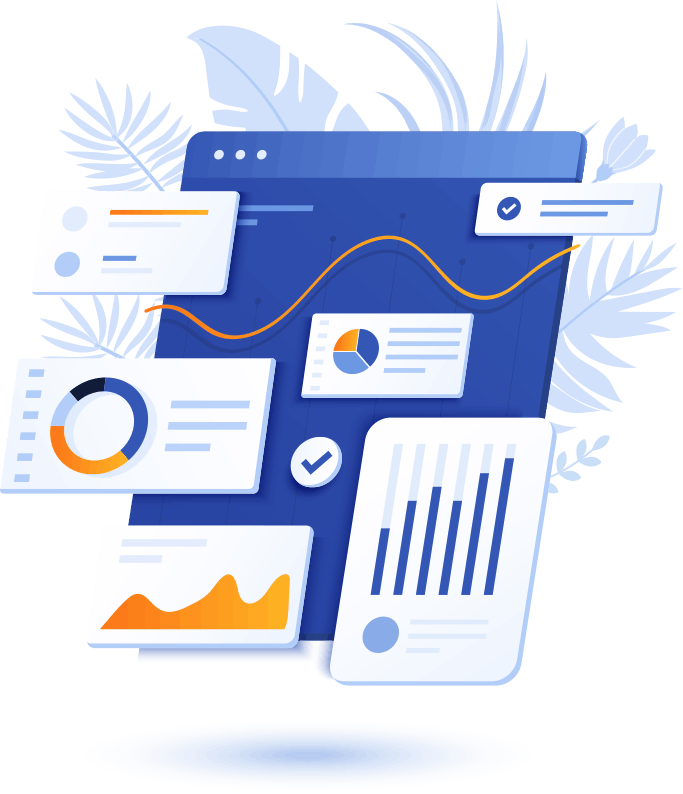
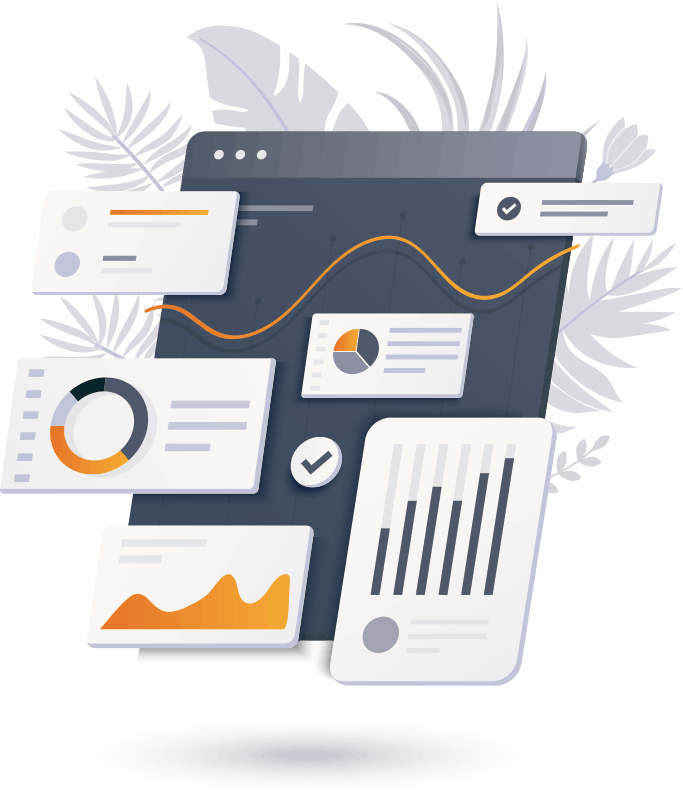
black theme update

diff --git a/assets/scss/footer/_footer.scss b/assets/scss/footer/_footer.scss
@@ -175,7 +175,7 @@
 .footer-top {
     padding: 100px 0px;
     @include max-screen(1199) {
-        background: #0a196f;
+        background: black;
     }
     .container {
         position: relative;
@@ -183,7 +183,7 @@
     }
 }
 .footer-card {
-    background: #02126a;
+    background: #222222;
     border-radius: 15px;
 }
 
@@ -290,7 +290,7 @@
     }
 }
 .footer-social-link {
-    border: 1px solid #273581;
+    border: 1px solid #666666;
     width: 50px;
     height: 50px;
     display: flex;
@@ -307,7 +307,7 @@
 
 .copy-right-section {
     padding: 20px 0px;
-    background: #111f73;
+    background: #222222;
     P {
         text-align: center;
         color: #c7cbdf;

diff --git a/assets/scss/components/_accordion.scss b/assets/scss/components/_accordion.scss
@@ -47,10 +47,10 @@
                 box-shadow: none;
             }
             &:active {
-                color: #02126a;
+                color: #222222;
             }
             &.collapsed {
-                color: #02126a;
+                color: #222222;
                 background-color: #f7faff;
             }
         }

diff --git a/assets/scss/components/_working-process.scss b/assets/scss/components/_working-process.scss
@@ -34,7 +34,7 @@
             height: 170px;
             margin: 0 auto 5px;
             position: relative;
-            border: 5px solid #132580;
+            border: 5px solid #333333;
             border-radius: 50%;
             background-color: $primary;
             width: 170px;

diff --git a/assets/scss/_variables.scss b/assets/scss/_variables.scss
@@ -26,7 +26,7 @@ $dark: #000;
 
 
 // Border Color
-$border-color: #273581;
+$border-color: #666666;
 
 
 // Gray
@@ -36,7 +36,7 @@ $gray-800: #f8f8f8;
 
 
 // Other Colors
-$blue: #02126a;
+$blue: #222222;
 $red: #dc3545;
 $yellow: #fc7418;
 $green: #32b618;

diff --git a/assets/scss/_common.scss b/assets/scss/_common.scss
@@ -185,7 +185,7 @@ button {
 
     &.process {
         .icon {
-            background: #2843b2;
+            background: #222222;
             box-shadow: 0px 0px 55px 0px rgba(2, 18, 106, 0.1);
         }
         .title {

diff --git a/assets/scss/components/_blog.scss b/assets/scss/components/_blog.scss
@@ -210,7 +210,7 @@
     // max-width: 390px;
     margin: 0 auto;
     .title {
-        color: #02126a;
+        color: #222222;
         font-size: 20px;
         font-weight: 700;
         line-height: 1.5;

diff --git a/assets/scss/components/_hero-section.scss b/assets/scss/components/_hero-section.scss
@@ -216,6 +216,7 @@
     bottom: -125px;
     left: 200px;
     z-index: -1;
+    height: 300px;
     animation: move 0.9s infinite alternate;
     @include max-screen(1200, 1500) {
         bottom: -180px;

diff --git a/assets/scss/header/_header-top.scss b/assets/scss/header/_header-top.scss
@@ -7,7 +7,7 @@
 }
 
 .header-top {
-    background-color: #02126a;
+    background-color: #222222;
     p {
         font-family: $font-family-base;
         font-weight: 400;
